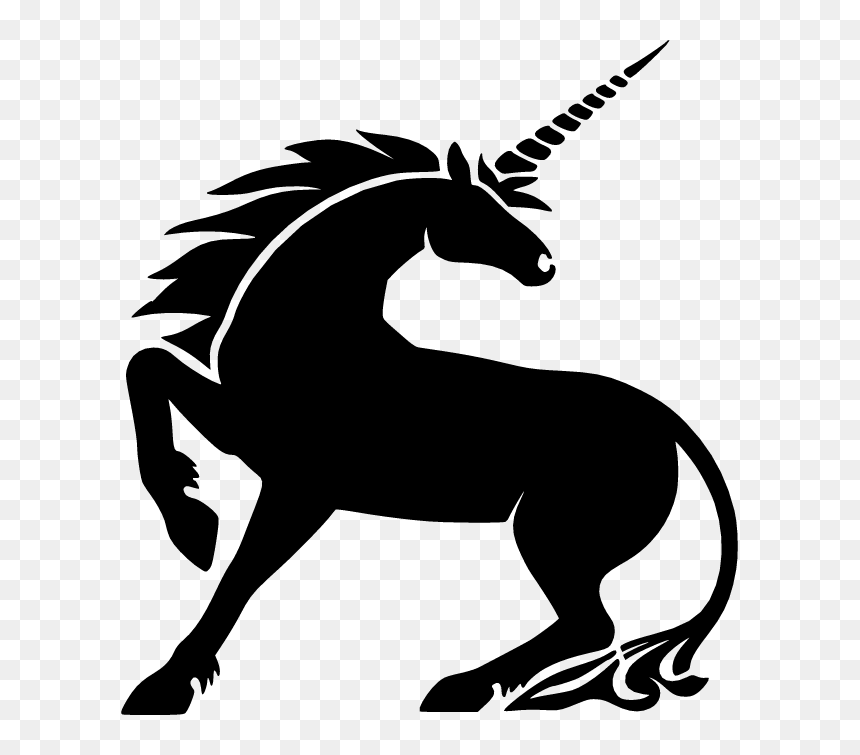
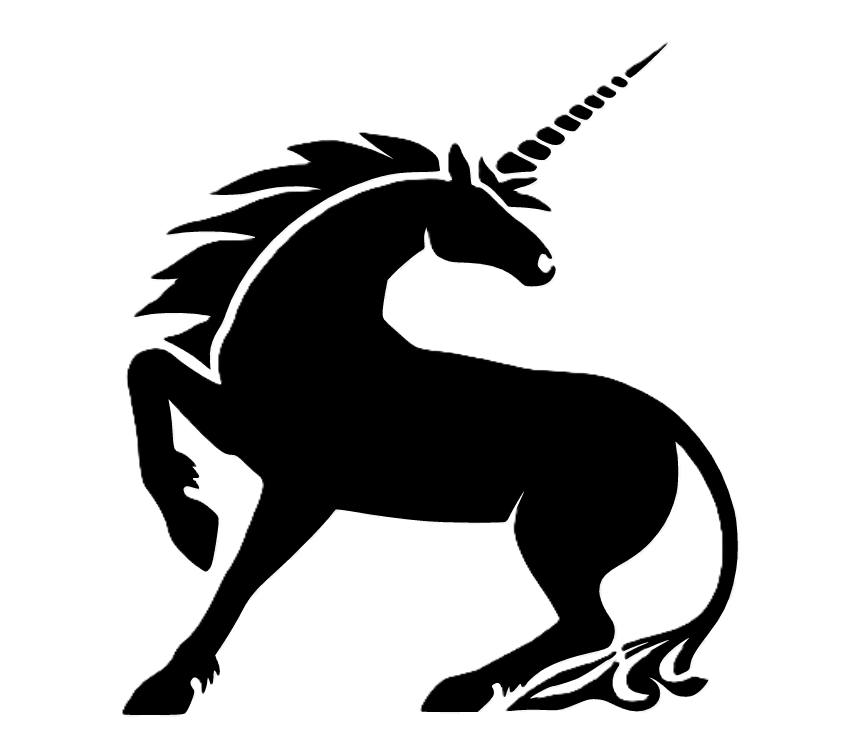
upgrade image div

diff --git a/test.html b/test.html
@@ -3,12 +3,17 @@
 <head>
     <meta charset="UTF-8">
     <meta name="viewport" content="width=device-width, initial-scale=1.0">
+    <link rel="stylesheet" href="style.css">
     <title>Test for Git</title>
 </head>
 <body>
     <p>testing</p>
     <p>this is how it works</p>
-    <img src="/baby.png" style="width:10%;" alt="baby"><img src="/meme cat.png" style="width: 20%;" alt="cat"><img src="/unicorn.png" style="width:30%;" alt="unicorn">
-    
+    <div class="image">
+        <div class="image0"><img src="/baby.png" alt="baby"></div>
+        <div class="image1"><img src="/meme cat.png" alt="cat"></div>
+        <div class="image2"> <img src="/unicorn.png" alt="unicorn"></div>
+    </div>
+   
 </body>
 </html>

diff --git a/style.css b/style.css
@@ -1,11 +1,22 @@
 p{
-    font-size: 20px;
+    font-size: 30px;
     font-family: sans-serif;
     font-weight: 100;
-    color: hwb(180 37% 5%);
+    color: pink;
     font-style: italic;
+    text-align: center;
 }
-img{
-    width: 10%;
-    display: inline-block;
+.image{
+    display: flex;
+    /*border: 1px solid black;*/
+    justify-content: space-around;
+}
+.image0, .image1, .image2{
+    /*border: solid 1px black;*/
+    width: 25%;
+}
+.image img{
+    width: 200px;
+    height: 200px;
+    padding: auto;
 }
